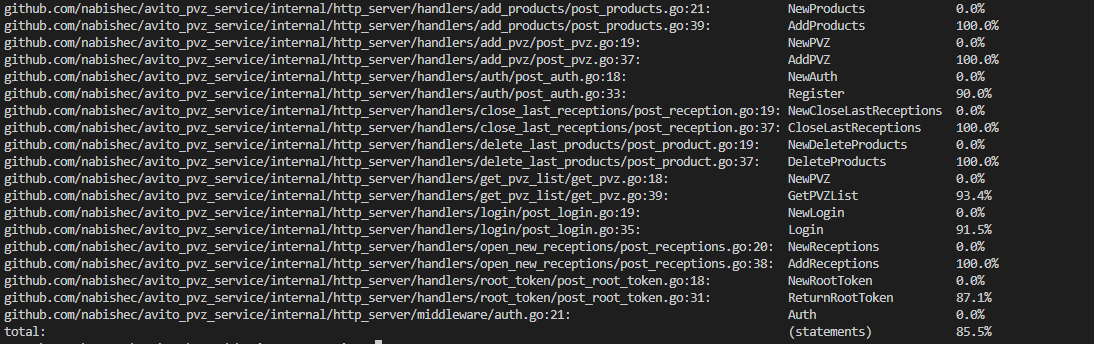
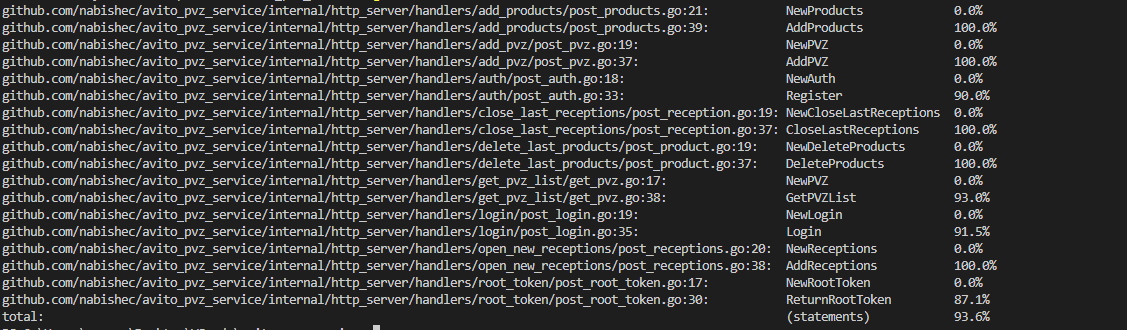
fix bugs

diff --git a/internal/http_server/handlers/login/post_login_test.go b/internal/http_server/handlers/login/post_login_test.go
@@ -2,7 +2,6 @@ package login
 
 import (
 	"bytes"
-	"context"
 	"encoding/json"
 	"errors"
 	"net/http"
@@ -33,7 +32,7 @@ func TestLogin(t *testing.T) {
 	}
 
 	t.Run("Successful login", func(t *testing.T) {
-		postLoginMock.LoginMock.Expect(context.Background(), reqBody.Email, reqBody.Password).Return(uuid.New(), "client", nil)
+		postLoginMock.LoginMock.Expect(minimock.AnyContext, reqBody.Email, reqBody.Password).Return(uuid.New(), "client", nil)
 		req := httptest.NewRequest(http.MethodPost, "/login", bytes.NewBuffer(jsonReq))
 		w := httptest.NewRecorder()
 		handler.Login(w, req)
@@ -66,7 +65,7 @@ func TestLogin(t *testing.T) {
 	})
 
 	t.Run("Status Unauthorized user not exist", func(t *testing.T) {
-		postLoginMock.LoginMock.Expect(context.Background(), reqBody.Email, reqBody.Password).Return(uuid.Nil, "", storage.ErrUserNotExist)
+		postLoginMock.LoginMock.Expect(minimock.AnyContext, reqBody.Email, reqBody.Password).Return(uuid.Nil, "", storage.ErrUserNotExist)
 
 		req := httptest.NewRequest(http.MethodPost, "/login", bytes.NewBuffer(jsonReq))
 		w := httptest.NewRecorder()
@@ -75,7 +74,7 @@ func TestLogin(t *testing.T) {
 	})
 
 	t.Run("Status Unauthorized incorrect password of user", func(t *testing.T) {
-		postLoginMock.LoginMock.Expect(context.Background(), reqBody.Email, reqBody.Password).Return(uuid.Nil, "", storage.ErrPasswordIsWrong)
+		postLoginMock.LoginMock.Expect(minimock.AnyContext, reqBody.Email, reqBody.Password).Return(uuid.Nil, "", storage.ErrPasswordIsWrong)
 
 		req := httptest.NewRequest(http.MethodPost, "/login", bytes.NewBuffer(jsonReq))
 		w := httptest.NewRecorder()
@@ -84,7 +83,7 @@ func TestLogin(t *testing.T) {
 	})
 
 	t.Run("Status Unauthorized incorrect password is empty", func(t *testing.T) {
-		postLoginMock.LoginMock.Expect(context.Background(), reqBody.Email, reqBody.Password).Return(uuid.Nil, "", storage.ErrPasswordIsEmpty)
+		postLoginMock.LoginMock.Expect(minimock.AnyContext, reqBody.Email, reqBody.Password).Return(uuid.Nil, "", storage.ErrPasswordIsEmpty)
 
 		req := httptest.NewRequest(http.MethodPost, "/login", bytes.NewBuffer(jsonReq))
 		w := httptest.NewRecorder()
@@ -93,7 +92,7 @@ func TestLogin(t *testing.T) {
 	})
 
 	t.Run("Internal Server Error", func(t *testing.T) {
-		postLoginMock.LoginMock.Expect(context.Background(), reqBody.Email, reqBody.Password).Return(uuid.Nil, "", errors.New("its bad time to work"))
+		postLoginMock.LoginMock.Expect(minimock.AnyContext, reqBody.Email, reqBody.Password).Return(uuid.Nil, "", errors.New("its bad time to work"))
 
 		req := httptest.NewRequest(http.MethodPost, "/login", bytes.NewBuffer(jsonReq))
 		w := httptest.NewRecorder()

diff --git a/internal/http_server/handlers/delete_last_products/post_product_test.go b/internal/http_server/handlers/delete_last_products/post_product_test.go
@@ -27,7 +27,7 @@ func TestDeleteLastProduct(t *testing.T) {
 	t.Run("Successful delete last product", func(t *testing.T) {
 		pvzID := uuid.New().String()
 
-		postDeleteLastProducts.DeleteLastProductsMock.Expect(context.Background(), uuid.MustParse(pvzID)).Return(nil)
+		postDeleteLastProducts.DeleteLastProductsMock.Expect(minimock.AnyContext, uuid.MustParse(pvzID)).Return(nil)
 
 		req := httptest.NewRequest(http.MethodPost, "/pvz/"+pvzID+"/delete_last_product", nil)
 		req = req.WithContext(context.WithValue(req.Context(), middleware.RequestUserRoleKey, "client"))
@@ -59,7 +59,7 @@ func TestDeleteLastProduct(t *testing.T) {
 	t.Run("Status Bad Request open reception not exist", func(t *testing.T) {
 		pvzID := uuid.New().String()
 
-		postDeleteLastProducts.DeleteLastProductsMock.Expect(context.Background(), uuid.MustParse(pvzID)).Return(storage.ErrOpenReceptionNotExist)
+		postDeleteLastProducts.DeleteLastProductsMock.Expect(minimock.AnyContext, uuid.MustParse(pvzID)).Return(storage.ErrOpenReceptionNotExist)
 
 		req := httptest.NewRequest(http.MethodPost, "/pvz/"+pvzID+"/delete_last_product", nil)
 		req = req.WithContext(context.WithValue(req.Context(), middleware.RequestUserRoleKey, "client"))
@@ -71,7 +71,7 @@ func TestDeleteLastProduct(t *testing.T) {
 	t.Run("Status Bad Request not product in request", func(t *testing.T) {
 		pvzID := uuid.New().String()
 
-		postDeleteLastProducts.DeleteLastProductsMock.Expect(context.Background(), uuid.MustParse(pvzID)).Return(storage.ErrProductsInReceptionNotExist)
+		postDeleteLastProducts.DeleteLastProductsMock.Expect(minimock.AnyContext, uuid.MustParse(pvzID)).Return(storage.ErrProductsInReceptionNotExist)
 
 		req := httptest.NewRequest(http.MethodPost, "/pvz/"+pvzID+"/delete_last_product", nil)
 		req = req.WithContext(context.WithValue(req.Context(), middleware.RequestUserRoleKey, "client"))
@@ -93,7 +93,7 @@ func TestDeleteLastProduct(t *testing.T) {
 	t.Run("Status Internal Server Error", func(t *testing.T) {
 		pvzID := uuid.New().String()
 
-		postDeleteLastProducts.DeleteLastProductsMock.Expect(context.Background(), uuid.MustParse(pvzID)).Return(errors.New("good var love bad func"))
+		postDeleteLastProducts.DeleteLastProductsMock.Expect(minimock.AnyContext, uuid.MustParse(pvzID)).Return(errors.New("good var love bad func"))
 
 		req := httptest.NewRequest(http.MethodPost, "/pvz/"+pvzID+"/delete_last_product", nil)
 		req = req.WithContext(context.WithValue(req.Context(), middleware.RequestUserRoleKey, "client"))

diff --git a/internal/http_server/handlers/close_last_receptions/post_reception_test.go b/internal/http_server/handlers/close_last_receptions/post_reception_test.go
@@ -27,7 +27,7 @@ func TestCloseLastReception(t *testing.T) {
 	t.Run("Successful close last reception", func(t *testing.T) {
 		pvzID := uuid.New().String()
 
-		postCloseLastReceptionsMock.CloseLastReceptionsMock.Expect(context.Background(), uuid.MustParse(pvzID)).Return(nil)
+		postCloseLastReceptionsMock.CloseLastReceptionsMock.Expect(minimock.AnyContext, uuid.MustParse(pvzID)).Return(nil)
 
 		req := httptest.NewRequest(http.MethodPost, "/pvz/"+pvzID+"/close_last_reception", nil)
 		req = req.WithContext(context.WithValue(req.Context(), middleware.RequestUserRoleKey, "client"))
@@ -59,7 +59,7 @@ func TestCloseLastReception(t *testing.T) {
 	t.Run("Status Bad Request open reception not exist", func(t *testing.T) {
 		pvzID := uuid.New().String()
 
-		postCloseLastReceptionsMock.CloseLastReceptionsMock.Expect(context.Background(), uuid.MustParse(pvzID)).Return(storage.ErrOpenReceptionNotExist)
+		postCloseLastReceptionsMock.CloseLastReceptionsMock.Expect(minimock.AnyContext, uuid.MustParse(pvzID)).Return(storage.ErrOpenReceptionNotExist)
 
 		req := httptest.NewRequest(http.MethodPost, "/pvz/"+pvzID+"/close_last_reception", nil)
 		req = req.WithContext(context.WithValue(req.Context(), middleware.RequestUserRoleKey, "client"))
@@ -71,7 +71,7 @@ func TestCloseLastReception(t *testing.T) {
 	t.Run("Status forbidden", func(t *testing.T) {
 		pvzID := uuid.New().String()
 
-		postCloseLastReceptionsMock.CloseLastReceptionsMock.Expect(context.Background(), uuid.MustParse(pvzID)).Return(nil)
+		postCloseLastReceptionsMock.CloseLastReceptionsMock.Expect(minimock.AnyContext, uuid.MustParse(pvzID)).Return(nil)
 
 		req := httptest.NewRequest(http.MethodPost, "/pvz/"+pvzID+"/close_last_reception", nil)
 		req = req.WithContext(context.WithValue(req.Context(), middleware.RequestUserRoleKey, "moderator"))
@@ -83,7 +83,7 @@ func TestCloseLastReception(t *testing.T) {
 	t.Run("Status Internal Server Error", func(t *testing.T) {
 		pvzID := uuid.New().String()
 
-		postCloseLastReceptionsMock.CloseLastReceptionsMock.Expect(context.Background(), uuid.MustParse(pvzID)).Return(errors.New("not today baby"))
+		postCloseLastReceptionsMock.CloseLastReceptionsMock.Expect(minimock.AnyContext, uuid.MustParse(pvzID)).Return(errors.New("not today baby"))
 
 		req := httptest.NewRequest(http.MethodPost, "/pvz/"+pvzID+"/close_last_reception", nil)
 		req = req.WithContext(context.WithValue(req.Context(), middleware.RequestUserRoleKey, "client"))

diff --git a/internal/http_server/handlers/open_new_receptions/post_receptions_test.go b/internal/http_server/handlers/open_new_receptions/post_receptions_test.go
@@ -33,7 +33,7 @@ func TestOpenReception(t *testing.T) {
 	}
 
 	t.Run("Successful opening of reception", func(t *testing.T) {
-		postReceptionsMock.AddReceptionMock.Expect(context.Background(), uuid.MustParse(reqBody.PVZID)).Return(&model.ReceptionsResp{}, nil)
+		postReceptionsMock.AddReceptionMock.Expect(minimock.AnyContext, uuid.MustParse(reqBody.PVZID)).Return(&model.ReceptionsResp{}, nil)
 		req := httptest.NewRequest(http.MethodPost, "/receptions", bytes.NewBuffer(jsonReq))
 		req = req.WithContext(context.WithValue(req.Context(), middleware.RequestUserRoleKey, "client"))
 		w := httptest.NewRecorder()
@@ -84,7 +84,7 @@ func TestOpenReception(t *testing.T) {
 	})
 
 	t.Run("Status bad request when pvz not exist", func(t *testing.T) {
-		postReceptionsMock.AddReceptionMock.Expect(context.Background(), uuid.MustParse(reqBody.PVZID)).Return(nil, storage.ErrPVZNotExist)
+		postReceptionsMock.AddReceptionMock.Expect(minimock.AnyContext, uuid.MustParse(reqBody.PVZID)).Return(nil, storage.ErrPVZNotExist)
 
 		req := httptest.NewRequest(http.MethodPost, "/receptions", bytes.NewBuffer(jsonReq))
 		req = req.WithContext(context.WithValue(req.Context(), middleware.RequestUserRoleKey, "client"))
@@ -94,7 +94,7 @@ func TestOpenReception(t *testing.T) {
 	})
 
 	t.Run("Status bad request when previous reception not closed", func(t *testing.T) {
-		postReceptionsMock.AddReceptionMock.Expect(context.Background(), uuid.MustParse(reqBody.PVZID)).Return(nil, storage.ErrPreviousReceptionNotClosed)
+		postReceptionsMock.AddReceptionMock.Expect(minimock.AnyContext, uuid.MustParse(reqBody.PVZID)).Return(nil, storage.ErrPreviousReceptionNotClosed)
 
 		req := httptest.NewRequest(http.MethodPost, "/receptions", bytes.NewBuffer(jsonReq))
 		req = req.WithContext(context.WithValue(req.Context(), middleware.RequestUserRoleKey, "client"))
@@ -112,7 +112,7 @@ func TestOpenReception(t *testing.T) {
 	})
 
 	t.Run("Internal Server Error", func(t *testing.T) {
-		postReceptionsMock.AddReceptionMock.Expect(context.Background(), uuid.MustParse(reqBody.PVZID)).Return(nil, errors.New("no baby not today"))
+		postReceptionsMock.AddReceptionMock.Expect(minimock.AnyContext, uuid.MustParse(reqBody.PVZID)).Return(nil, errors.New("no baby not today"))
 
 		req := httptest.NewRequest(http.MethodPost, "/receptions", bytes.NewBuffer(jsonReq))
 		req = req.WithContext(context.WithValue(req.Context(), middleware.RequestUserRoleKey, "client"))

diff --git a/internal/http_server/handlers/add_products/post_products_test.go b/internal/http_server/handlers/add_products/post_products_test.go
@@ -34,7 +34,7 @@ func TestAddProducts(t *testing.T) {
 	}
 
 	t.Run("Successful addition of product", func(t *testing.T) {
-		postProductsMock.AddProductMock.Expect(context.Background(), uuid.MustParse(reqBody.PVZID), reqBody.Type).Return(&model.ProductsResp{
+		postProductsMock.AddProductMock.Expect(minimock.AnyContext, uuid.MustParse(reqBody.PVZID), reqBody.Type).Return(&model.ProductsResp{
 			ID: uuid.New(),
 		}, nil)
 
@@ -108,7 +108,7 @@ func TestAddProducts(t *testing.T) {
 	})
 
 	t.Run("Status bad request when active reception not exist", func(t *testing.T) {
-		postProductsMock.AddProductMock.Expect(context.Background(), uuid.MustParse(reqBody.PVZID), reqBody.Type).Return(nil, storage.ErrOpenReceptionNotExist)
+		postProductsMock.AddProductMock.Expect(minimock.AnyContext, uuid.MustParse(reqBody.PVZID), reqBody.Type).Return(nil, storage.ErrOpenReceptionNotExist)
 
 		req := httptest.NewRequest(http.MethodPost, "/products", bytes.NewBuffer(jsonReq))
 		req = req.WithContext(context.WithValue(req.Context(), middleware.RequestUserRoleKey, "client"))
@@ -126,7 +126,7 @@ func TestAddProducts(t *testing.T) {
 	})
 
 	t.Run("Internal Server Error", func(t *testing.T) {
-		postProductsMock.AddProductMock.Expect(context.Background(), uuid.MustParse(reqBody.PVZID), reqBody.Type).Return(nil, errors.New("lets tomorrow"))
+		postProductsMock.AddProductMock.Expect(minimock.AnyContext, uuid.MustParse(reqBody.PVZID), reqBody.Type).Return(nil, errors.New("lets tomorrow"))
 
 		req := httptest.NewRequest(http.MethodPost, "/products", bytes.NewBuffer(jsonReq))
 		req = req.WithContext(context.WithValue(req.Context(), middleware.RequestUserRoleKey, "client"))

diff --git a/internal/http_server/handlers/auth/post_auth_test.go b/internal/http_server/handlers/auth/post_auth_test.go
@@ -2,7 +2,6 @@ package auth
 
 import (
 	"bytes"
-	"context"
 	"encoding/json"
 	"errors"
 	"net/http"
@@ -34,7 +33,7 @@ func TestAuth(t *testing.T) {
 	}
 
 	t.Run("Successful registration", func(t *testing.T) {
-		postAuthMock.CreateUserMock.Expect(context.Background(), reqBody.Email, reqBody.Password, reqBody.Role).Return(&model.RegisterResp{
+		postAuthMock.CreateUserMock.Expect(minimock.AnyContext, reqBody.Email, reqBody.Password, reqBody.Role).Return(&model.RegisterResp{
 			ID:    uuid.New(),
 			Email: reqBody.Email,
 			Role:  reqBody.Role,
@@ -90,7 +89,7 @@ func TestAuth(t *testing.T) {
 	})
 
 	t.Run("Status bad request user exist", func(t *testing.T) {
-		postAuthMock.CreateUserMock.Expect(context.Background(), reqBody.Email, reqBody.Password, reqBody.Role).Return(nil, storage.ErrUserAlreadyExist)
+		postAuthMock.CreateUserMock.Expect(minimock.AnyContext, reqBody.Email, reqBody.Password, reqBody.Role).Return(nil, storage.ErrUserAlreadyExist)
 
 		req := httptest.NewRequest(http.MethodPost, "/register", bytes.NewBuffer(jsonReq))
 		w := httptest.NewRecorder()
@@ -99,7 +98,7 @@ func TestAuth(t *testing.T) {
 	})
 
 	t.Run("Internal Server Error", func(t *testing.T) {
-		postAuthMock.CreateUserMock.Expect(context.Background(), reqBody.Email, reqBody.Password, reqBody.Role).Return(nil, errors.New("not for u"))
+		postAuthMock.CreateUserMock.Expect(minimock.AnyContext, reqBody.Email, reqBody.Password, reqBody.Role).Return(nil, errors.New("not for u"))
 
 		req := httptest.NewRequest(http.MethodPost, "/register", bytes.NewBuffer(jsonReq))
 		w := httptest.NewRecorder()

diff --git a/internal/http_server/handlers/get_pvz_list/get_pvz_test.go b/internal/http_server/handlers/get_pvz_list/get_pvz_test.go
@@ -1,7 +1,6 @@
 package getpvzlist
 
 import (
-	"context"
 	"errors"
 	"net/http"
 	"net/http/httptest"
@@ -23,7 +22,7 @@ func TestGetPVZList(t *testing.T) {
 	endDate, _ := time.Parse(time.RFC3339, "2025-04-12T21:00:00Z")
 
 	t.Run("Successful get pvz list", func(t *testing.T) {
-		getPVZListMock.GetPVZListWithRecepMock.Expect(context.Background(), startDate, endDate, 1, 10).Return([]*model.PVZWithRecep{}, nil)
+		getPVZListMock.GetPVZListWithRecepMock.Expect(minimock.AnyContext, startDate, endDate, 1, 10).Return([]*model.PVZWithRecep{}, nil)
 
 		req := httptest.NewRequest(http.MethodGet, "/pvz?startDate="+startDate.Format(time.RFC3339)+"&endDate="+endDate.Format(time.RFC3339), nil)
 		w := httptest.NewRecorder()
@@ -63,7 +62,7 @@ func TestGetPVZList(t *testing.T) {
 	})
 
 	t.Run("Status Internal Server Error", func(t *testing.T) {
-		getPVZListMock.GetPVZListWithRecepMock.Expect(context.Background(), startDate, endDate, 1, 10).Return(nil, errors.New("today is Cosmonautics Day"))
+		getPVZListMock.GetPVZListWithRecepMock.Expect(minimock.AnyContext, startDate, endDate, 1, 10).Return(nil, errors.New("today is Cosmonautics Day"))
 
 		req := httptest.NewRequest(http.MethodGet, "/pvz?startDate="+startDate.Format(time.RFC3339)+"&endDate="+endDate.Format(time.RFC3339), nil)
 		w := httptest.NewRecorder()

diff --git a/internal/http_server/handlers/add_pvz/post_pvz_test.go b/internal/http_server/handlers/add_pvz/post_pvz_test.go
@@ -27,7 +27,7 @@ func TestAddPVZ(t *testing.T) {
 	t.Run("Successful addition to PVZ", func(t *testing.T) {
 		city := defaultCity
 
-		postPVZMock.AddPVZMock.Expect(context.Background(), city).Return(&model.PVZResp{
+		postPVZMock.AddPVZMock.Expect(minimock.AnyContext, city).Return(&model.PVZResp{
 			ID:               uuid.New(),
 			RegistrationDate: time.Now(),
 			City:             city,
@@ -85,7 +85,7 @@ func TestAddPVZ(t *testing.T) {
 		city := defaultCity
 
 		req := httptest.NewRequest(http.MethodPost, "/pvz", bytes.NewBufferString(`{"city":"`+city+`"}`))
-		postPVZMock.AddPVZMock.Expect(context.Background(), city).Return(nil, errors.New("lazy func won't do anything"))
+		postPVZMock.AddPVZMock.Expect(minimock.AnyContext, city).Return(nil, errors.New("lazy func won't do anything"))
 		req = req.WithContext(context.WithValue(req.Context(), middleware.RequestUserRoleKey, "moderator"))
 		w := httptest.NewRecorder()
 		handler.AddPVZ(w, req)

diff --git a/integration_test/api_test.go b/integration_test/api_test.go
@@ -11,7 +11,7 @@ import (
 
 	"github.com/go-chi/chi"
 	"github.com/joho/godotenv"
-	dbconnection "github.com/nabishec/avito_pvz_service/cmd/db_connection"
+	dbconnection "github.com/nabishec/avito_pvz_service/internal/app/db_connection"
 	addproducts "github.com/nabishec/avito_pvz_service/internal/http_server/handlers/add_products"
 	addpvz "github.com/nabishec/avito_pvz_service/internal/http_server/handlers/add_pvz"
 	"github.com/nabishec/avito_pvz_service/internal/http_server/handlers/auth"

diff --git a/README.md b/README.md
@@ -33,11 +33,11 @@ docker-compose up -d
 4. Swagger документация: http://localhost:8080/swagger/
 
 ## ❗Решения
-В задании была ошибка, которая выражалась в том, что в openapi документации был employee, а в  задании client. Поэтому было принято решение везде использовать client.
+* В задании была ошибка, которая выражалась в том, что в openapi документации был employee, а в  задании client. Поэтому было принято решение везде использовать client.
 
-В задании было указано, что prometheus должен быть доступен по порту 9000, endpoint'у /metrics. Поэтому приложение подключается по порту 9090 к prometheus. А prometheus  к пользователю по порту 9000. И к метрикам приложения нет доступа с наружи контейнера.
+* В задании было указано, что prometheus должен быть доступен по порту 9000, endpoint'у /metrics. Поэтому приложение передает свои метрики prometheus по порту 9090 внутри контейнера . А prometheus  к пользоват елю по порту 9000. И к метрикам приложения нет доступа с наружи контейнера.
 
-Также в файле .proto было enum, которое не используется в модели ПВЗ, и модели ответа grpc сервиса. Поэтому существование enum игнорировалось, и  по порту 3000 доступен grpc сервер, который возвращает список пвз, без поля активности подписок. 
+* Также в файле .proto было enum, которое не используется в модели ПВЗ, и модели ответа grpc сервиса. Поэтому существование enum игнорировалось, и  по порту 3000 доступен grpc сервер, который возвращает список пвз, без поля активности подписок. 
 
 
 ## ⚠ Обработка ошибок
@@ -66,7 +66,8 @@ docker-compose up -d
 ```bash
 go test ./... -v
 ```
-
+Был создан интеграционный [тест](integration_test/api_test.go)
+А также юнит [тесты](internal/http_server/handlers) для бизнес логики.
 Для проверки покрытия кода тестами:
 
 ```bash
@@ -74,6 +75,7 @@ go tool cover -func cover.out
 ```
 
 ![Покрытие бизнес логики юнит тестами](image.png)
+(на снимке показан процент покрытия бизнес логики юнит тестами)
 
 ## 💻 Технический стек
 
